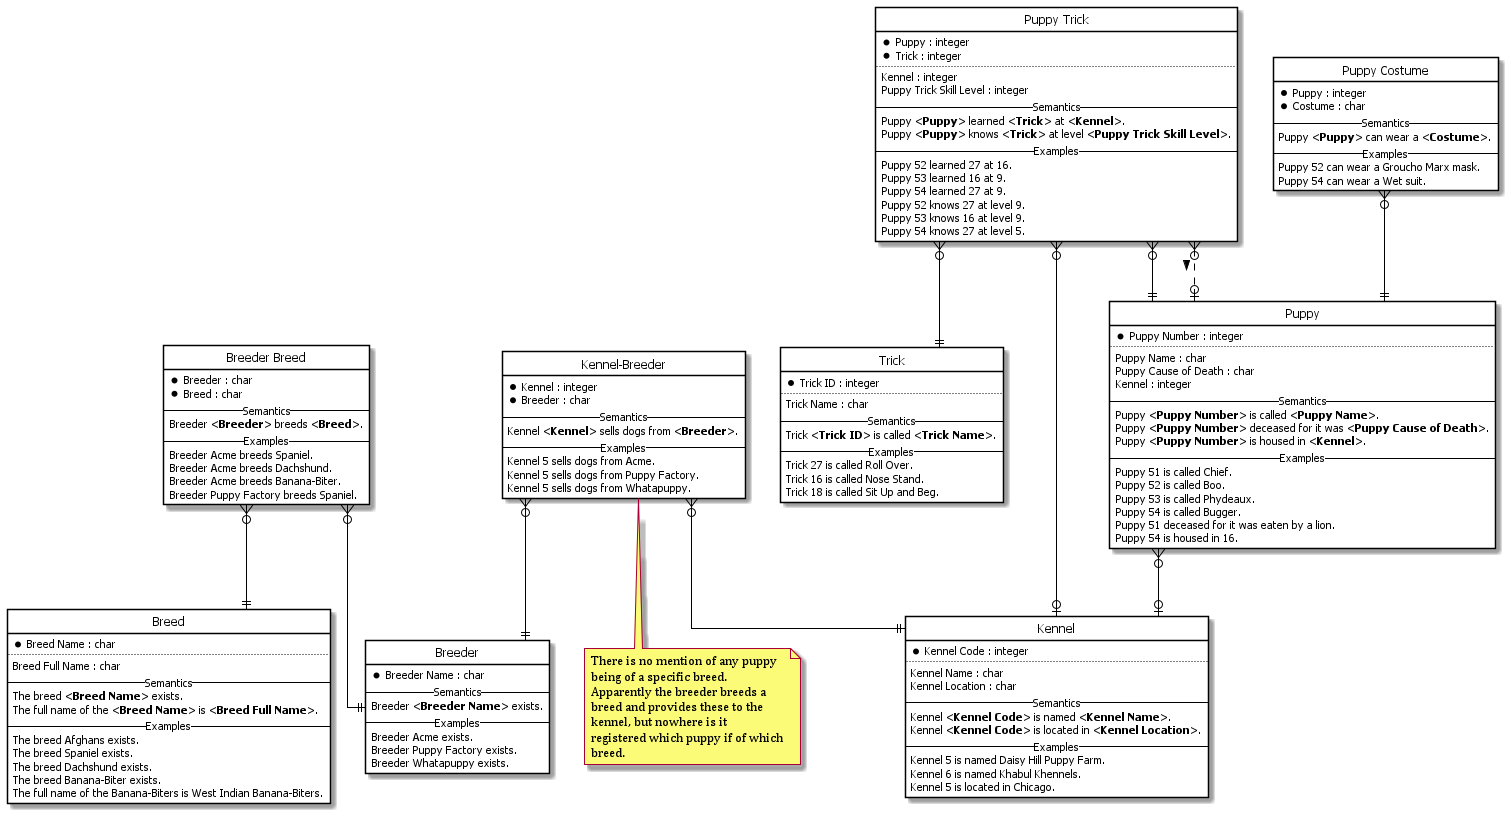
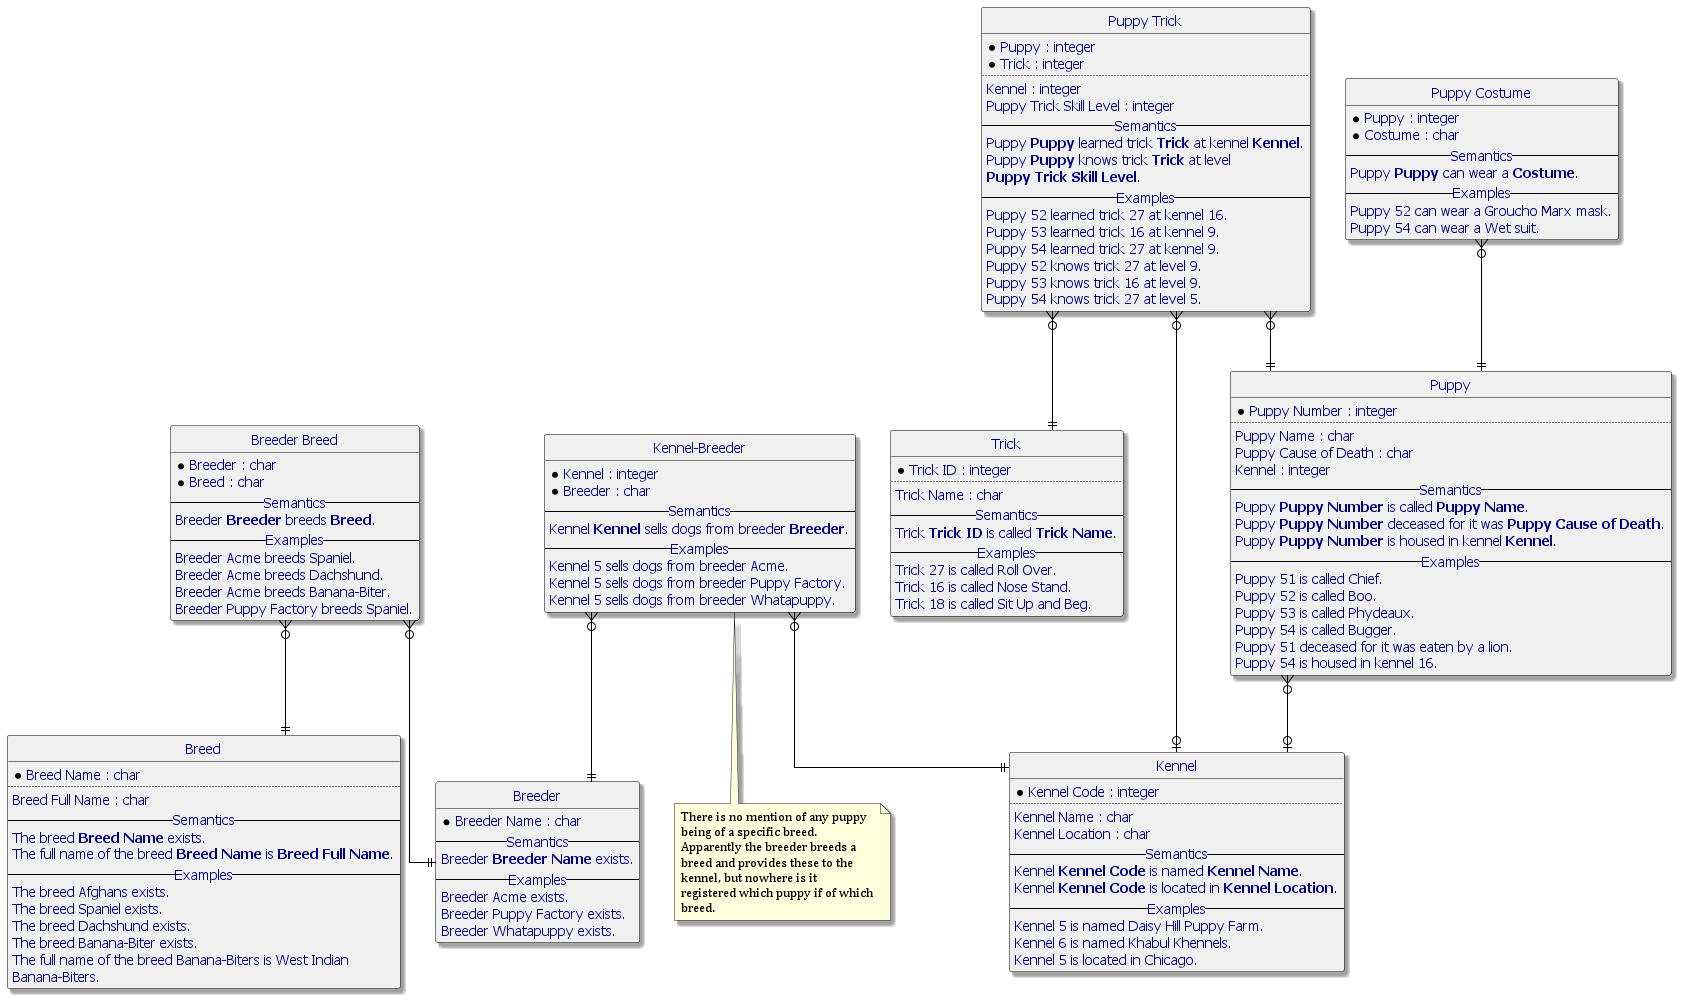
Upgraded to CaseTalk 12.6 and include the new EXP diagram

diff --git a/EN/Puppy Tricks/README.md b/EN/Puppy Tricks/README.md
@@ -1,13 +1,11 @@
 # ![CaseTalk Logo](https://www.casetalk.com/images/icons/casetalk.png) puppytricks.prj
-
+[Description]
 This model is loosely based upon the a poster used in the article by Thomas Frisendal.
 The article is here:
 https://www.dataversity.net/say-hello-to-graph-normal-form-gnf/#
 
-And the poster is about normalization. Though aged, containing spelling errors, and assuming a few relations, this may provide some insight how the original article holds up in FCO-IM.
-
-
-*Project created with CaseTalk v12.4 Build 3.28868.*
+And the poster is about normalization. Though aged, containing
+*Project created with CaseTalk v12.6 Build 0.30996.*
 
 * ![Project](https://www.casetalk.com/images/icons/prj.png) puppytricks.prj
   * ![Repository](https://www.casetalk.com/images/icons/ig.png) puppytricks.ig
@@ -21,3 +19,5 @@ And the poster is about normalization. Though aged, containing spelling errors, 
 ![Diagram puppytricks.igd /UML](puppytricks.uml.png)
 ## puppytricks.igd /MAP
 ![Diagram puppytricks.igd /MAP](puppytricks.map.png)
+## puppytricks.igd /EXP
+![Diagram puppytricks.igd /EXP](puppytricks.exp.png)
